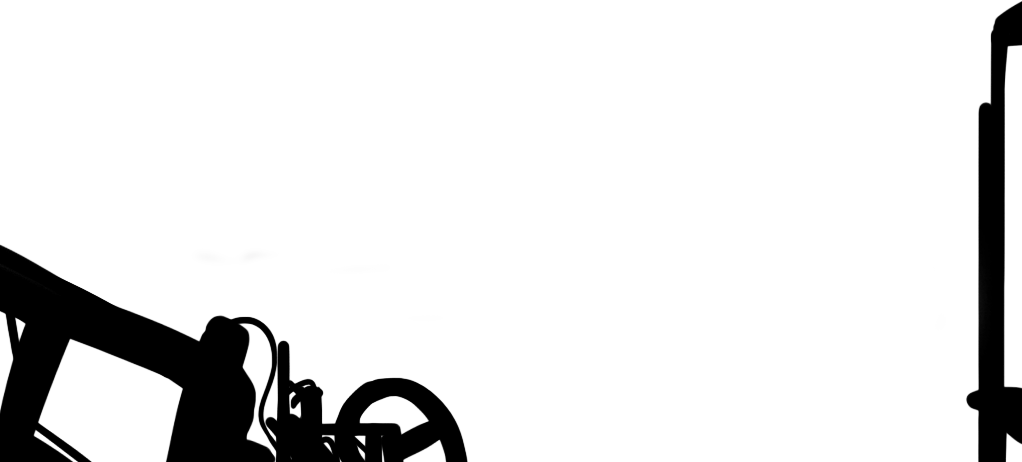
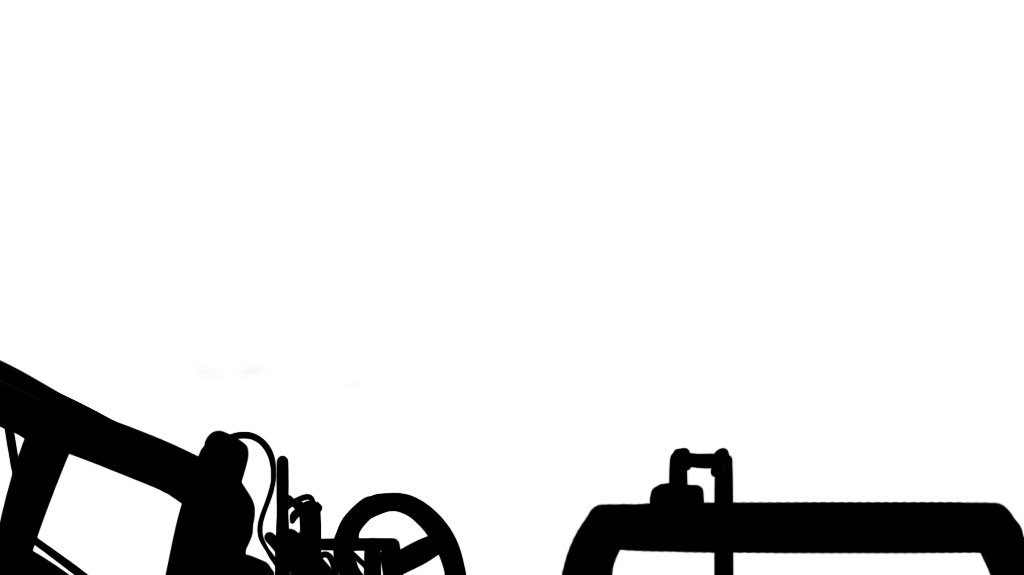
In train paralax.

Changed region(s): [[0.546, 0.0, 1.0, 1.0], [0.0, 0.5152, 0.455, 1.0]]

diff --git a/src/monkey.js b/src/monkey.js
@@ -33,6 +33,9 @@ var Monkey = function() {
 
   this.interactRect = new Phaser.Rectangle(-50,-20,90,60);
   this.canMove = true;
+
+  this.baseGroundHeight = 400;
+  this.groundHeight = this.baseGroundHeight;
 }
 
 Monkey.prototype.loadAssets = function() {
@@ -45,19 +48,27 @@ Monkey.prototype.loadAssets = function() {
 }
 
 Monkey.prototype.onGround = function() {
-  if(this.sprite.y > 299.9) {
+  if(this.sprite.y > this.groundHeight - 0.1) {
     return true;
   } else {
     return false;
   }
 }
 
-Monkey.prototype.update = function() {
+Monkey.prototype.update = function(game) {
+
+  this.sprite.x += game.trainMotionOffsetX
+  this.sprite.y += game.trainMotionOffsetY
+
+  this.groundHeight += game.trainMotionOffsetY;
+
 
   this.accelerationX = 0;
 
   if(this.onGround()) {
-    if(Math.abs(this.velocityX) > 0.3) {
+
+
+    if(Math.abs(this.velocityX) > 0.01) {
 
       var unitVelocity = this.velocityX / Math.abs(this.velocityX);
       this.direction = unitVelocity;
@@ -66,10 +77,11 @@ Monkey.prototype.update = function() {
 
     } else {
 
+
       if(this.velocityX > 0)  {
-        this.direction = 1;
-      } else {
         this.direction = -1;
+      } else {
+        this.direction = 1;
       }
 
     }
@@ -158,8 +170,8 @@ Monkey.prototype.attachItem = function(item) {
 }
 
 Monkey.prototype.simpleGroundCollisionHandler = function() {
-  if(this.sprite.y > 300) {
-    this.sprite.y = 300;
+  if(this.sprite.y > this.groundHeight) {
+    this.sprite.y = this.groundHeight;
     this.velocityY = 0;
   }
 }

diff --git a/src/car.js b/src/car.js
@@ -1,12 +1,28 @@
-  var Car = function(background, foreground, x, y) {
-    this.backgroundSprite = phaser.add.sprite(x, y, background);
-    this.backgroundSprite.anchor.setTo(0.5, 0.5);
-    this.backgroundSprite.z = 80;
+var Car = function(background, foreground, x, y) {
+  this.backgroundSprite = phaser.add.sprite(x, y, background);
+  this.backgroundSprite.anchor.setTo(0.5, 0.5);
+  this.backgroundSprite.z = 80;
 
-    this.foregroundSprite = phaser.add.sprite(x, y, foreground);
-    this.foregroundSprite.anchor.setTo(0.5, 0.5);
-    this.foregroundSprite.z = 110;
-  };
+  this.targetX = phaser.world.centerX;
+  this.targetY = phaser.world.centerY;
+  
+  this.x = this.targetX;
+  this.y = this.targetY;
+
+  this.foregroundSprite = phaser.add.sprite(x, y, foreground);
+  this.foregroundSprite.anchor.setTo(0.5, 0.5);
+  this.foregroundSprite.z = 110;
+};
+
+Car.prototype.update = function(game) {
+
+  this.backgroundSprite.x += game.trainMotionOffsetX;
+  this.backgroundSprite.y += game.trainMotionOffsetY;
+
+  this.foregroundSprite.x += 2.0 * game.trainMotionOffsetX;
+  this.foregroundSprite.y += 1.0 * game.trainMotionOffsetY;
+
+}
 
 Car.prototype.loadAssets = function() {
   phaser.load.image('train.engine.background', 'img/game_rdy_PNGs/engine_room.png');
@@ -19,3 +35,6 @@ Car.prototype.add = function(car){
   this.cars.push(car);
   return this;
 };
+
+
+

diff --git a/index.html b/index.html
@@ -42,13 +42,13 @@
             phaser.debug.spriteCoords(items.key.sprite, 400, 500);
             // phaser.debug.text(game.monkey.velocityX.toString(), 32, 300);
 
-            var monkeyRect = new Phaser.Rectangle(game.monkey.interactRect.x + game.monkey.sprite.x,
-              game.monkey.interactRect.y + game.monkey.sprite.y, game.monkey.interactRect.width, game.monkey.interactRect.height);
-            phaser.debug.geom(monkeyRect);
+            // var monkeyRect = new Phaser.Rectangle(game.monkey.interactRect.x + game.monkey.sprite.x,
+            //   game.monkey.interactRect.y + game.monkey.sprite.y, game.monkey.interactRect.width, game.monkey.interactRect.height);
+            // phaser.debug.geom(monkeyRect);
 
-            var itemRect = new Phaser.Rectangle(items.key.interactRect.x + items.key.sprite.x,
-              items.key.interactRect.y + items.key.sprite.y, items.key.interactRect.width, items.key.interactRect.height);
-            phaser.debug.geom(itemRect);
+            // var itemRect = new Phaser.Rectangle(items.key.interactRect.x + items.key.sprite.x,
+            //   items.key.interactRect.y + items.key.sprite.y, items.key.interactRect.width, items.key.interactRect.height);
+            // phaser.debug.geom(itemRect);
         }
 
     };

diff --git a/src/main.js b/src/main.js
@@ -48,7 +48,11 @@ var game = (function() {
 
   result.update = function() {
 
-    result.monkey.update();
+    result.trainMotionOffsetX = 0.3 * Math.sin(2 * phaser.time.totalElapsedSeconds());
+    result.trainMotionOffsetY = 0.1 * Math.sin(3 * phaser.time.totalElapsedSeconds());
+
+    result.monkey.update(result);
+    result.train.update(result);
 
     result.time -= 1.0 / 60;
     result.clock.text = result.time.toString();
